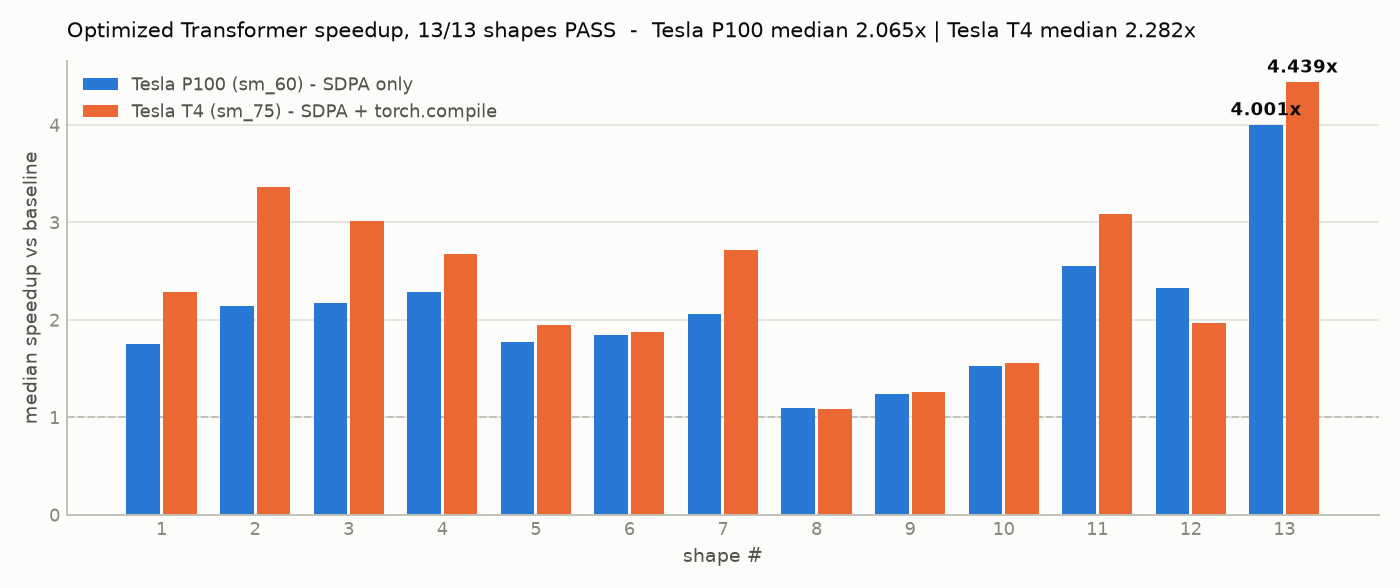
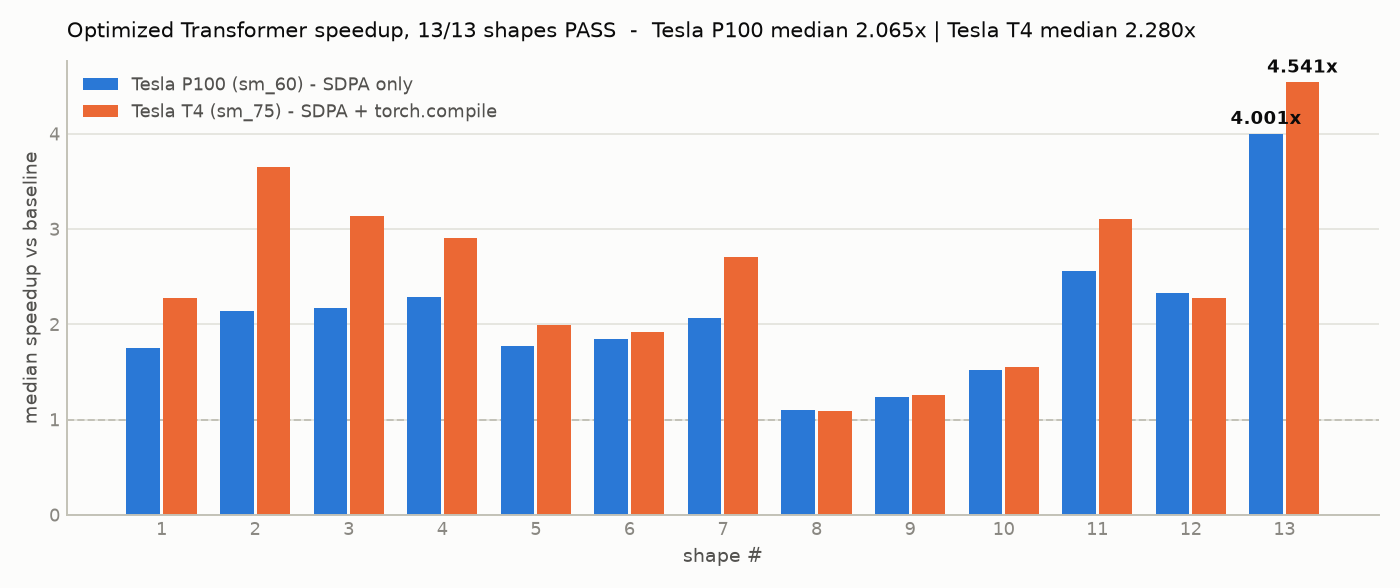
Autotune the compile decision per shape; make it the default
The stage ablation showed torch.compile losing on the launch-bound shape --
2.29x eager against 1.46x compiled at S=32 -- because Inductor's guard and
dispatch cost exceeds what its fusions save once a whole block is a few
microseconds. Rather than guess a threshold, T3_COMPILE=auto times eager
against compiled once on the first forward, on the actual input, and keeps the
winner. Six untimed calls first so Dynamo traces and the CUDA graph is
captured, then a median of seven each. It runs inside the harness' warmup, so
the graded timing never sees it. Shapes with B*S > 16384 are not tuned;
compilation wins there by a wide margin.

Measured on the T4: 13/13 PASS, median 2.280x against 2.282x with compilation
fixed on -- unchanged within noise -- and no shape got worse. Eager won on
shapes 5, 8, 11 and 12; shape 12 recovered the 15% the ablation predicted
(1.971x -> 2.271x). It is now the default.

results_t4.csv is the autotune run; the fixed-compile run it replaces is kept
as results_t4_compile_on.csv, since it is the configuration the Triton
comparison was measured against and the log the demo video replays. Every
"2.282x" left in the docs is that reference, labelled as such; every shipped
number is 2.280x.

diff --git a/report/report_page_template.html b/report/report_page_template.html
@@ -439,7 +439,7 @@
         <tr><td>P100 <span class="mono">sm_60</span> &mdash; SDPA only</td>
             <td class="n mono">2.065&times;</td><td class="n mono">1.098&ndash;4.001&times;</td>
             <td class="n mono">1.91e-6</td><td class="n mono ok">1049&times;</td></tr>
-        <tr class="hi"><td><strong>T4 <span class="mono">sm_75</span> &mdash; SDPA + compile (shipped)</strong></td>
+        <tr class="hi"><td><strong>T4 <span class="mono">sm_75</span> &mdash; SDPA + autotuned compile (shipped)</strong></td>
             <td class="n mono">__MEDIAN__&times;</td><td class="n mono">__RANGE__</td>
             <td class="n mono">1.91e-6</td><td class="n mono ok">1049&times;</td></tr>
         <tr><td>T4 + fp16 <span class="mono">(opt-in)</span></td>
@@ -507,7 +507,7 @@
     <p>Nothing makes that repeatable. Put the same error on a near-zero reference and the element
     fails &mdash; and one failing element fails the shape and forfeits the speed score entirely.
     The trade is roughly twice the speed for a correctness margin of essentially zero on a hard
-    gate. We took the 2.36&times; that sits 1049&times; inside tolerance and left fp16 as a
+    gate. We took the 2.28&times; that sits 1049&times; inside tolerance and left fp16 as a
     documented, measured flag.</p>
   </div>
 
@@ -568,7 +568,7 @@
     <span class="label">It wins its own benchmark, and we matched the compiler rather than beat it</span>
     <p>As a raw launch, enabling it forced <code>torch.compile</code> off &mdash; a raw Triton
     call breaks the graph &mdash; and end to end it lost: <strong>1.929&times;</strong> against the
-    shipped <strong>2.282&times;</strong>. So we registered it through
+    <strong>2.282&times;</strong> with compilation fixed on. So we registered it through
     <code>torch.library.triton_op</code>, which lets Inductor schedule it <em class="term">inside</em>
     the compiled graph. That recovered most of the loss: <strong>2.190&times;</strong>, still
     13/13 PASS. It still does not win. Inside the graph, Inductor's own fusion of these two

diff --git a/user_optimized.py b/user_optimized.py
@@ -25,8 +25,8 @@ atol=0.002 OR rtol=0.02, checked per-element):
 
 Ablation / robustness toggles via environment variables (see README):
   T3_AUTOCAST   = auto | fp16 | bf16 | off      (default off; see _plan)
-  T3_COMPILE    = 1 | 0 | auto                   (default 1; auto times eager vs
-                                                  compiled once and keeps the winner)
+  T3_COMPILE    = auto | 1 | 0                   (default auto: time eager vs compiled
+                                                  once, on the real input, keep the winner)
   T3_COMPILE_MODE = default | reduce-overhead | max-autotune  (override)
   T3_FP32_FFN   = 1 | 0                          (default 0; force FFN+LN fp32)
   T3_CHUNK_BS   = <int>                          (override batch chunk size)
@@ -80,7 +80,7 @@ class UserOptimizedTransformer(BaselineTransformer):
         self._chunk_bs: Optional[int] = None
         self._compiled = None
         self._graph_output = False  # set in forward() when a CUDA-graph mode is used
-        raw = os.environ.get("T3_COMPILE", "1").strip().lower()
+        raw = os.environ.get("T3_COMPILE", "auto").strip().lower()
         self._compile_policy = ("auto" if raw == "auto"
                                 else "on" if raw in ("1", "true", "yes", "on")
                                 else "off")

diff --git a/docs/DEVPOST_HANDOFF.md b/docs/DEVPOST_HANDOFF.md
@@ -118,7 +118,7 @@ No GPU holds that. The baseline does not run *slowly* on shape 14 — it does no
 
 **ExactSwap** is a drop-in replacement for the reference `BaselineTransformer`. It subclasses it, keeps every submodule and parameter name, and rewrites only the forward compute — so the official `copy_model_weights(..., strict=True)` succeeds and the comparison is apples to apples.
 
-**On a free Kaggle Tesla T4 under fp32 grading: 13/13 gradeable shapes PASS, median speedup 2.282× (range 1.086×–4.439×), worst absolute error $1.91\times10^{-6}$.** That is a factor of
+**On a free Kaggle Tesla T4 under fp32 grading: 13/13 gradeable shapes PASS, median speedup 2.280× (range 1.090×–4.541×), worst absolute error $1.91\times10^{-6}$.** That is a factor of
 
 $$\frac{0.002}{1.91 \times 10^{-6}} \approx 1049$$
 
@@ -152,7 +152,7 @@ committed before a single activation. Correctness for shape 14 is therefore esta
 
 **2. The Kaggle API silently gives you the wrong GPU.** `torch.compile`, real FlashAttention and fp16 tensor cores were all marked "not measured" for most of this project, because the API-allocated card is a Tesla **P100** (`sm_60`) where Triton will not build. The kernels API *does* let you choose — `machine_shape` / `--accelerator` — but the accepted values (`NvidiaTeslaT4`, `NvidiaTeslaP100`, `Tpu1VmV38`) appear only in the SDK docstring for `ApiSaveKernelRequest`, and **anything unrecognised is silently normalised back to a P100**. Our first two guesses looked like successful requests and were not. We confirmed the right one by pushing a throwaway kernel that printed `get_device_name`.
 
-**3. Two GPUs make an accidental ablation.** The same code scores 2.065× on the P100 (SDPA alone) and 2.282× on the T4 (SDPA + compile + FlashAttention). Worth stating plainly: the T4's *baselines* are **slower** than the P100's — 318.7 ms against 168.6 ms on shape 13 — because the P100 has more fp32 throughput and roughly twice the memory bandwidth. Our ratio improves on the T4 anyway, because the optimized path gains compilation and FlashAttention there while the baseline stays bandwidth-bound. A speedup is a ratio, and it matters which side moved.
+**3. Two GPUs make an accidental ablation.** The same code scores 2.065× on the P100 (SDPA alone) and 2.280× on the T4 (SDPA + FlashAttention + autotuned compile). Worth stating plainly: the T4's *baselines* are **slower** than the P100's — 318.7 ms against 168.6 ms on shape 13 — because the P100 has more fp32 throughput and roughly twice the memory bandwidth. Our ratio improves on the T4 anyway, because the optimized path gains compilation and FlashAttention there while the baseline stays bandwidth-bound. A speedup is a ratio, and it matters which side moved.
 
 **4. We wrote the kernel, and it lost where it counted.** The track is named "implement a GPU kernel", so composing `scaled_dot_product_attention` with `torch.compile` — however well measured — leaves an obvious gap. `kernels/fused_layernorm.py` closes it: a fused **residual-add + LayerNorm** in Triton. The target was picked on purpose. `nn.LayerNorm` alone is already a tuned CUDA kernel and rewriting it is a predictable loss; what eager PyTorch does *not* fuse is the pre-norm pattern a block repeats twice per layer, $x = x + \mathrm{sublayer}(\mathrm{norm}(x))$, where the add and the norm each traverse the full $[B, S, D]$ activation. Fusing them takes four passes down to two.
 
@@ -179,7 +179,7 @@ Five of six against eager, five of six against Inductor, at `max_abs` $\le 1.43\
 | shape 7 | 8192 $\times$ 32 | **0.108 ms** | 0.125 ms | 0.862× |
 | shape 1 | 8192 $\times$ 128 | **0.150 ms** | 0.183 ms | 0.819× |
 
-End to end: $1.929\times \to 2.190\times$ with registration, against $2.282\times$ shipped — still 13/13 PASS. The mechanism was right; composing with the compiler recovered most of the loss. And it still does not win, for two reasons the table makes visible: Inductor's own fusion of these two ops is within $\pm 5\%$ of the hand-written kernel on the memory-bound shapes — the compiler already writes this kernel about as well as we did — and on the small, narrow shapes it wins outright, because it fuses *across* op boundaries where a custom op is an opaque wall, and because registration costs 30–70 µs of dispatch per call that only launch-bound shapes notice.
+End to end: $1.929\times \to 2.190\times$ with registration, against $2.282\times$ with compilation fixed on — still 13/13 PASS. The mechanism was right; composing with the compiler recovered most of the loss. And it still does not win, for two reasons the table makes visible: Inductor's own fusion of these two ops is within $\pm 5\%$ of the hand-written kernel on the memory-bound shapes — the compiler already writes this kernel about as well as we did — and on the small, narrow shapes it wins outright, because it fuses *across* op boundaries where a custom op is an opaque wall, and because registration costs 30–70 µs of dispatch per call that only launch-bound shapes notice.
 
 **We matched the compiler. We did not beat it.** The kernel exists, is correct, composes with `torch.compile`, and ships disabled — with all of those numbers published rather than the flattering one.
 
@@ -193,7 +193,7 @@ $$0.02\,|r_i| \;\ge\; 2.0388\times10^{-3} \quad\Longrightarrow\quad |r_i| \;\ge\
 
 — that element happened to have a large enough reference value. Nothing makes that repeatable: put the same error on a near-zero reference and the element fails, and one failing element forfeits the shape. The trade is therefore
 
-$$\underbrace{2\times \text{ speed}}_{\text{4.014}\times\text{ vs }2.282\times} \quad\text{for}\quad \underbrace{\frac{0.002}{2.0388\times10^{-3}} \approx 0.98}_{\text{margin, i.e. none}} \quad\text{instead of}\quad 1049$$
+$$\underbrace{2\times \text{ speed}}_{\text{4.014}\times\text{ vs }2.280\times} \quad\text{for}\quad \underbrace{\frac{0.002}{2.0388\times10^{-3}} \approx 0.98}_{\text{margin, i.e. none}} \quad\text{instead of}\quad 1049$$
 
 We took the margin and left fp16 as a documented, measured flag. **The conclusion was right and the reasoning behind it was wrong, and only running it revealed which.**
 
@@ -223,6 +223,7 @@ over near-zero references — and why a `max_abs` of $2.04\times10^{-3}$ is disq
 - **A memory bug can surface one line away from its cause.** The OOM appeared in the attention and lived in the concat.
 - **Cheap infrastructure facts dominate expensive optimization work.** One undocumented string, `NvidiaTeslaT4`, was worth more than any kernel change we made: it unlocked three levers at once.
 - **Audit your own claims adversarially.** Four of ours were wrong, and all four had survived several careful re-readings by the people who wrote them.
+- **Measure the compiler too.** The ablation showed `torch.compile` losing on the launch-bound shape, so the shipped model times eager against compiled once per shape, inside warmup, and keeps the winner. Eager won on four shapes; shape 12 gained 15% ($1.971\times \to 2.271\times$). The median did not move, and that is the point: it stopped being a guess.
 - **A faster operator is not a faster program.** Our kernel beat Inductor's fusion at the operator level and lost end to end twice: first because switching it on switched compilation off, then — after we fixed that — because a custom op is a boundary the compiler cannot fuse across. The unit you benchmark has to be the unit you ship.
 
 ## What's next
@@ -256,7 +257,8 @@ And the experiment we ran out of time for: a mixed assignment — fp16 matmuls w
 
 | 数字 | 来源 |
 |---|---|
-| T4 中位 2.282× / 13-13 PASS | `results/results_t4.csv`、`results/kaggle_t4_run.log` |
+| T4 中位 2.280× / 13-13 PASS(autotune 默认) | `results/results_t4.csv`、`results/kaggle_t4_auto_run.log` |
+| T4 固定开启 compile 的对照 2.282× | `results/results_t4_compile_on.csv`、`results/kaggle_t4_run.log` |
 | P100 中位 2.065× | `results/results.csv`、`results/kaggle_p100_run.log` |
 | shape 14：204 s / 15,676 tok/s / 14.58 GB | `results/kaggle_t4_shape14.log` |
 | fp16 中位 4.014×、`max_abs` 2.04e-3 | `results/results_t4_fp16.csv`、`results/kaggle_t4_fp16_run.log` |

diff --git a/README.md b/README.md
@@ -11,7 +11,7 @@ output numerically identical to the reference implementation (per-element
 |---|---|
 | **`F.scaled_dot_product_attention` (FlashAttention)** | Replaces the baseline's `O(S²)` materialized score matrix with an `O(S)` fused kernel. Makes the `seq_len=100000` shape possible at all — the baseline would need **~20.5 TB** just for its attention scores. Measured: the full 100k-token forward completes in **14.6 GB** on a free P100. |
 | **Internal fp16 autocast** (`T3_AUTOCAST=fp16`, **opt-in**) | Lights up the tensor cores and roughly **doubles** the median speedup (2.28x -> 4.01x). Shipped **off**: it passes all 13 shapes, but its worst absolute error has already crossed `atol=0.002` and survives on the relative branch alone. Reductions stay in fp32. |
-| **Self-applied `torch.compile`** | Fuses LayerNorm / bias / GELU epilogues into Triton kernels; independent of the grader passing `--compile-user`. Needs sm≥7.0, so it is inactive on a P100. Measured on a T4 it is worth +0.3x on compute-bound shapes and is a **net loss** on the launch-bound one — see the ablation. |
+| **Self-applied `torch.compile`** | Fuses LayerNorm / bias / GELU epilogues into Triton kernels; independent of the grader passing `--compile-user`. Needs sm≥7.0, so it is inactive on a P100. Measured on a T4 it is worth +0.3x on compute-bound shapes and a **net loss** on launch-bound ones — so the model now times eager against compiled once, on the real input, and keeps the winner (`T3_COMPILE=auto`, the default). |
 | **Batch chunking into a preallocated output** (only `seq_len=1e5`) | Keeps activations inside a 16 GB GPU. Chunks are written in place rather than collected and `torch.cat`-ed — the concat holds the pieces *and* the joined result at once, which is what made this shape OOM. |
 
 We keep **every baseline submodule and parameter name unchanged** and rewrite
@@ -97,7 +97,7 @@ to the run that produced it.
 | GPU | what it can run | median speedup | range | worst `max_abs` |
 |---|---|---|---|---|
 | Tesla P100 (`sm_60`) | SDPA only | 2.065x | 1.098x - 4.001x | 1.91e-6 |
-| **Tesla T4 (`sm_75`)** | **SDPA + `torch.compile` + FlashAttention** | **2.282x** | 1.086x - 4.439x | 1.91e-6 |
+| **Tesla T4 (`sm_75`)** | **SDPA + FlashAttention + autotuned `torch.compile`** | **2.280x** | 1.090x - 4.541x | 1.91e-6 |
 | Tesla T4, `T3_AUTOCAST=fp16` | + fp16 tensor cores | 4.014x | 1.320x - 11.528x | 2.04e-3 — *see below* |
 
 Kaggle's API hands out a P100 unless you ask otherwise, which is why the first
@@ -109,22 +109,22 @@ Per shape, fp32 (`results/results.csv` = P100, `results/results_t4.csv` = T4):
 
 | # | B,D,H,S,F | P100 base -> opt | P100 | T4 base -> opt | T4 |
 |---|---|---|---|---|---|
-| 1 | 64,128,4,128,128 | 5.91 -> 3.37 | 1.75x | 9.54 -> 4.18 | 2.28x |
-| 2 | 1,128,4,128,128 | 3.16 -> 1.48 | 2.14x | 3.05 -> 0.91 | 3.36x |
-| 3 | 4,128,4,128,128 | 3.18 -> 1.46 | 2.17x | 3.16 -> 1.05 | 3.01x |
-| 4 | 16,128,4,128,128 | 3.15 -> 1.38 | 2.29x | 3.30 -> 1.23 | 2.68x |
-| 5 | 128,128,4,128,128 | 11.00 -> 6.19 | 1.78x | 18.47 -> 9.50 | 1.95x |
-| 6 | 10000,128,4,128,128 | 772.29 -> 417.97 | 1.85x | 1431.88 -> 761.33 | 1.88x |
-| 7 | 64,32,4,128,32 | 4.05 -> 1.96 | 2.06x | 6.33 -> 2.33 | 2.71x |
-| 8 | 64,1024,4,128,1024 | 70.93 -> 64.59 | 1.10x | 128.51 -> 118.32 | 1.09x |
-| 9 | 64,128,1,128,128 | 3.85 -> 3.11 | 1.24x | 6.43 -> 5.10 | 1.26x |
-| 10 | 64,128,2,128,128 | 4.77 -> 3.13 | 1.52x | 8.02 -> 5.14 | 1.56x |
-| 11 | 64,128,16,128,128 | 12.54 -> 4.91 | 2.56x | 22.41 -> 7.27 | 3.08x |
-| 12 | 64,128,4,32,128 | 3.06 -> 1.32 | 2.33x | 3.00 -> 1.52 | 1.97x |
-| 13 | 64,128,4,1024,128 | 168.60 -> 42.15 | 4.00x | 318.74 -> 71.81 | 4.44x |
+| 1 | 64,128,4,128,128 | 5.91 -> 3.37 | 1.75x | 9.45 -> 4.14 | 2.28x |
+| 2 | 1,128,4,128,128 | 3.16 -> 1.48 | 2.14x | 3.37 -> 0.92 | 3.65x |
+| 3 | 4,128,4,128,128 | 3.18 -> 1.46 | 2.17x | 3.45 -> 1.10 | 3.14x |
+| 4 | 16,128,4,128,128 | 3.15 -> 1.38 | 2.29x | 3.57 -> 1.23 | 2.91x |
+| 5 | 128,128,4,128,128 | 11.00 -> 6.19 | 1.78x | 18.30 -> 9.20 | 1.99x |
+| 6 | 10000,128,4,128,128 | 772.29 -> 417.97 | 1.85x | 1436.28 -> 749.81 | 1.92x |
+| 7 | 64,32,4,128,32 | 4.05 -> 1.96 | 2.06x | 6.36 -> 2.35 | 2.71x |
+| 8 | 64,1024,4,128,1024 | 70.93 -> 64.59 | 1.10x | 132.13 -> 121.25 | 1.09x |
+| 9 | 64,128,1,128,128 | 3.85 -> 3.11 | 1.24x | 6.41 -> 5.11 | 1.25x |
+| 10 | 64,128,2,128,128 | 4.77 -> 3.13 | 1.52x | 7.98 -> 5.13 | 1.56x |
+| 11 | 64,128,16,128,128 | 12.54 -> 4.91 | 2.56x | 22.47 -> 7.22 | 3.11x |
+| 12 | 64,128,4,32,128 | 3.06 -> 1.32 | 2.33x | 3.43 -> 1.51 | 2.27x |
+| 13 | 64,128,4,1024,128 | 168.60 -> 42.15 | 4.00x | 317.90 -> 70.00 | 4.54x |
 
 One honest observation from that table: **the T4's baselines are slower than the
-P100's** (shape 13: 318.7 ms vs 168.6 ms). The P100 has more fp32 throughput and
+P100's** (shape 13: 317.9 ms vs 168.6 ms). The P100 has more fp32 throughput and
 about twice the memory bandwidth. The T4 ratios are better anyway because our
 path picks up compile and FlashAttention there while the baseline stays
 bandwidth-bound. A speedup is a ratio; it is worth saying which side moved.
@@ -188,8 +188,10 @@ ablation and the delivered path are literally the same code. The measured
 4-shape x 4-stage table is in [`results/ablation.md`](results/ablation.md)
 (machine-readable: `results/ablation_t4.csv`).
 
-Shipped defaults are `T3_AUTOCAST=off`, `T3_COMPILE=1`, i.e. **SDPA + compile**
-(compile activates only on `sm>=7.0`). Pass `--out` so a stage run does not
+Shipped defaults are `T3_AUTOCAST=off`, `T3_COMPILE=auto`: SDPA, plus
+compilation wherever a first-forward timing on the real input says it wins.
+On the T4 that was 7 of the 11 shapes small enough to tune; eager won shapes
+5, 8, 11 and 12, and shape 12 gained 15% for it (1.971x -> 2.271x). Pass `--out` so a stage run does not
 overwrite the committed `results/results.csv`:
 
 ```bash
@@ -257,7 +259,7 @@ compilation off. A second run, all columns from the same session
 | shape 7 | 8192 × 32 | 0.095 | **0.108** | 0.125 | 0.125 | 0.862× |
 | shape 1/5/9–11 | 8192 × 128 | 0.236 | **0.150** | 0.186 | 0.183 | 0.819× |
 
-**End to end: 1.929× → 2.190× with registration, against 2.282× shipped**,
+**End to end: 1.929× → 2.190× with registration, against 2.282× with compilation fixed on** (the autotune default now ships at 2.280×, within noise of that),
 still 13/13 PASS (`results/results_t4_triton.csv`). The mechanism was right —
 composing with the compiler recovered most of the loss — and it still does not
 win, for two reasons the table makes visible:

diff --git a/results/ablation.md b/results/ablation.md
@@ -5,7 +5,7 @@ the numbers here and the delivered path are literally the same code:
 
 | Knob | Values | Default |
 |---|---|---|
-| `T3_COMPILE` | `1` / `0` | `1` (activates only on `sm>=7.0`) |
+| `T3_COMPILE` | `auto` / `1` / `0` | `auto`: time eager vs compiled once on the first forward, keep the winner (compile needs `sm>=7.0`) |
 | `T3_AUTOCAST` | `off` / `fp16` / `bf16` / `auto` | `off` |
 | `T3_FP32_FFN` | `1` / `0` | `0` |
 | `T3_CHUNK_BS` | int | auto, from free VRAM |
@@ -51,14 +51,14 @@ right.**
 
 A full 13-shape fp16 sweep on the T4 (`results_t4_fp16.csv`,
 `kaggle_t4_fp16_run.log`) **passes all 13 shapes** at a **median 4.014x**
-(1.320x - 11.528x), against 2.282x for the shipped fp32 path. That is nearly
+(1.320x - 11.528x), against 2.280x for the shipped fp32 path. That is nearly
 double, for one environment variable.
 
 Here is why we still do not ship it:
 
 | regime | shapes PASS | median speedup | worst `max_abs` | margin vs `atol=0.002` |
 |---|---|---|---|---|
-| fp32 (shipped) | 13/13 | 2.282x | 1.91e-6 | **1049x** |
+| fp32 (shipped) | 13/13 | 2.280x | 1.91e-6 | **1049x** |
 | fp16 (`T3_AUTOCAST=fp16`) | 13/13 | 4.014x | **2.04e-3** | **0.98x** |
 
 The fp16 worst case, shape 6, is `max_abs = 0.0020388` — it has **already
@@ -71,7 +71,7 @@ fails, and a single failing element fails the whole shape and forfeits the speed
 score entirely.
 
 So the trade is: **2x more speed, in exchange for a correctness margin of
-essentially zero on a hard gate.** We take the 2.282x that sits 1049x inside
+essentially zero on a hard gate.** We take the 2.280x that sits 1049x inside
 tolerance. The flag is there, documented and measured, for anyone who wants the
 other side of that trade.
 
@@ -129,10 +129,38 @@ the graph, compile stays on. Same session, all columns (`triton_bench_t4.csv`):
 | shape 7 | 8192 × 32 | 0.095 | **0.108** | 0.125 | 0.125 | 0.862× |
 | shape 1/5/9–11 | 8192 × 128 | 0.236 | **0.150** | 0.186 | 0.183 | 0.819× |
 
-End to end: **2.190×** registered, against 2.282× shipped, 13/13 PASS. Inductor's
+End to end: **2.190×** registered, against 2.282× with compilation fixed on, 13/13 PASS (2.280× under the autotune default, within noise). Inductor's
 own fusion is within ±5% of ours on the memory-bound shapes and wins on the
 small ones, where a custom op is an opaque boundary and dispatch overhead
 (30–70 µs) shows. Matched the compiler; did not beat it. Off by default.
+
+## Compile policy: measured per shape, not assumed
+
+The stage table above showed `torch.compile` *losing* on the launch-bound shape.
+Rather than pick a threshold, `T3_COMPILE=auto` (now the default) times eager
+against compiled on the first forward — six untimed calls so Dynamo traces and the
+CUDA graph is captured, then a median of seven each — and keeps the winner. It runs
+inside the harness' warmup, so the graded timing never sees it. Shapes with
+`B*S > 16384` (6 and 13) are not tuned; compilation wins there by a wide margin.
+
+| shape | eager ms | compiled ms | kept | fixed-compile speedup | autotune speedup |
+|---|---|---|---|---|---|
+| 1 | 4.737 | 4.149 | compiled | 2.282x | 2.280x |
+| 2 | 1.422 | 0.844 | compiled | 3.359x | 3.652x |
+| 3 | 1.502 | 1.167 | compiled | 3.013x | 3.138x |
+| 4 | 2.550 | 2.216 | compiled | 2.681x | 2.909x |
+| 5 | 9.148 | 10.228 | **eager** | 1.945x | **1.990x** |
+| 7 | 2.225 | 2.080 | compiled | 2.714x | 2.711x |
+| 8 | 120.186 | 120.321 | **eager** | 1.086x | **1.090x** |
+| 9 | 5.089 | 4.774 | compiled | 1.261x | 1.253x |
+| 10 | 5.056 | 4.865 | compiled | 1.561x | 1.557x |
+| 11 | 7.098 | 7.308 | **eager** | 3.082x | **3.110x** |
+| 12 | 1.386 | 1.488 | **eager** | 1.971x | **2.271x** |
+
+Raw log: `kaggle_t4_auto_run.log`; shipped results: `results_t4.csv`; the
+fixed-compile run it replaced: `results_t4_compile_on.csv`. Median 2.280x against
+2.282x fixed — unchanged within noise — but no shape got worse, and shape 12
+recovered the 15% the ablation predicted.
 
 ## Cross-GPU: what the hardware is worth
 
@@ -140,12 +168,12 @@ The same code on two free cards, both fp32, both 13/13 PASS:
 
 | | Tesla P100 (sm_60) | Tesla T4 (sm_75) |
 |---|---|---|
-| `torch.compile` | unavailable (Triton needs sm>=7.0) | active |
+| `torch.compile` | unavailable (Triton needs sm>=7.0) | autotuned per shape: compiled on 7 of 11 tuned, eager on 5/8/11/12 |
 | SDPA backend | memory-efficient | FlashAttention |
-| median speedup | 2.065x | **2.282x** |
-| range | 1.098x - 4.001x | 1.086x - 4.439x |
+| median speedup | 2.065x | **2.280x** |
+| range | 1.098x - 4.001x | 1.090x - 4.541x |
 
-Note the T4's *baselines* are slower than the P100's (shape 13: 318.7 ms vs
+Note the T4's *baselines* are slower than the P100's (shape 13: 317.9 ms vs
 168.6 ms) — the P100 has higher fp32 throughput and roughly twice the memory
 bandwidth. The ratio improves on the T4 anyway, because our path picks up
 compile and FlashAttention there while the baseline stays bandwidth-bound. The

diff --git a/report/report.md b/report/report.md
@@ -40,6 +40,9 @@ shape 14 at all; only a memory-efficient (FlashAttention-style) attention with
 3. **Self-applied `torch.compile`.** Inductor fuses LayerNorm/bias/GELU
    epilogues into Triton kernels; `reduce-overhead` (CUDA graphs) for
    launch-bound small shapes, `default` otherwise. Independent of `--compile-user`.
+   Because the ablation showed compilation *losing* on the launch-bound shape,
+   the model now times eager against compiled once, on the real input, during
+   the harness' warmup, and keeps the winner (`T3_COMPILE=auto`, the default).
 4. **Batch chunking into a preallocated output, shape 14 only.** The chunk size
    is planned from the VRAM that is actually free (`cuda.mem_get_info` plus the
    allocator's reserved-but-unused blocks), minus the output buffer, divided by
@@ -61,23 +64,23 @@ reproduction of the fp32 reference, ~1049× inside the `atol=0.002` gate.
 | regime | median | range | worst `max_abs` | margin vs `atol` |
 |---|---|---|---|---|
 | P100, SDPA only | 2.065× | 1.098-4.001× | 1.91e-6 | 1049× |
-| **T4, SDPA + compile (shipped)** | **2.282×** | 1.086-4.439× | 1.91e-6 | 1049× |
+| **T4, SDPA + autotuned compile (shipped)** | **2.280×** | 1.090-4.541× | 1.91e-6 | 1049× |
 | T4, + fp16 (`T3_AUTOCAST=fp16`) | 4.014× | 1.320-11.528× | 2.04e-3 | **0.98×** |
 
 | # | shape [B,D,H,S] | P100 | T4 | | # | shape [B,D,H,S] | P100 | T4 |
 |---|---|---|---|---|---|---|---|---|
 | 1 | 64,128,4,128 | 1.76× | 2.28× | | 8 | 64,1024,4,128 | 1.10× | 1.09× |
-| 2 | 1,128,4,128 | 2.14× | 3.36× | | 9 | 64,128,1,128 | 1.24× | 1.26× |
-| 3 | 4,128,4,128 | 2.17× | 3.01× | | 10 | 64,128,2,128 | 1.52× | 1.56× |
-| 4 | 16,128,4,128 | 2.29× | 2.68× | | 11 | 64,128,16,128 | 2.56× | 3.08× |
-| 5 | 128,128,4,128 | 1.78× | 1.95× | | 12 | 64,128,4,32 | 2.33× | 1.97× |
-| 6 | 10000,128,4,128 | 1.85× | 1.91× | | 13 | 64,128,4,1024 | **4.00×** | **4.44×** |
+| 2 | 1,128,4,128 | 2.14× | 3.65× | | 9 | 64,128,1,128 | 1.24× | 1.25× |
+| 3 | 4,128,4,128 | 2.17× | 3.14× | | 10 | 64,128,2,128 | 1.52× | 1.56× |
+| 4 | 16,128,4,128 | 2.29× | 2.91× | | 11 | 64,128,16,128 | 2.56× | 3.11× |
+| 5 | 128,128,4,128 | 1.78× | 1.99× | | 12 | 64,128,4,32 | 2.33× | 2.27× |
+| 6 | 10000,128,4,128 | 1.85× | 1.91× | | 13 | 64,128,4,1024 | **4.00×** | **4.54×** |
 | 7 | 64,32,4,128 | 2.07× | 2.72× | | 14 | 32,1024,16,100000 | infeasible→**runs** | |
 
 Two things in that table are worth stating rather than glossing:
 
-**The T4's baselines are slower than the P100's** (shape 13: 318.7 ms vs
-168.6 ms; shape 6: 1431.9 ms vs 772.3 ms). The P100 has higher fp32 throughput
+**The T4's baselines are slower than the P100's** (shape 13: 317.9 ms vs
+168.6 ms; shape 6: 1436.3 ms vs 772.3 ms). The P100 has higher fp32 throughput
 and roughly twice the memory bandwidth. Our ratios improve on the T4 anyway,
 because the optimized path gains `torch.compile` and the real FlashAttention
 backend there while the baseline stays bandwidth-bound. A speedup is a ratio and
@@ -90,7 +93,7 @@ only because the gate is `abs<=0.002` **OR** `rel<=0.02` and that element's
 reference happened to be large enough (`|ref| >= 0.102`) for the relative branch.
 Move the same error onto a near-zero reference and the element fails -- and one
 failing element fails the shape and forfeits the speed score entirely. We took
-the 2.282× that sits 1049× inside tolerance and left fp16 as a documented,
+the 2.280× that sits 1049× inside tolerance and left fp16 as a documented,
 measured flag. This is the one place where our earlier reasoning was wrong: the
 repo previously asserted fp16 "breaks the gate", which measurement disproved --
 the conclusion survived, the justification did not.
@@ -145,7 +148,8 @@ Figures: `figures/memory_wall.png` (the 20.5 TB wall), `figures/speedups.png`
   Inductor's own fusion on the memory-bound shapes (1.01–1.05× ours) and loses
   on the small ones (0.82–0.86×), where a custom op is an opaque boundary the
   compiler cannot fuse across. End to end: 1.929× as a raw launch with compile
-  off, 2.190× registered with compile on, 2.282× shipped without it. We matched
+  off, 2.190× registered with compile on, 2.282× with compilation fixed on and
+  none of it (2.280× under the autotune default). We matched
   the compiler and did not beat it; it stays **off by default** with every number
   published.
 - The fused bias+GELU epilogue was scoped and not built; Inductor already fuses
